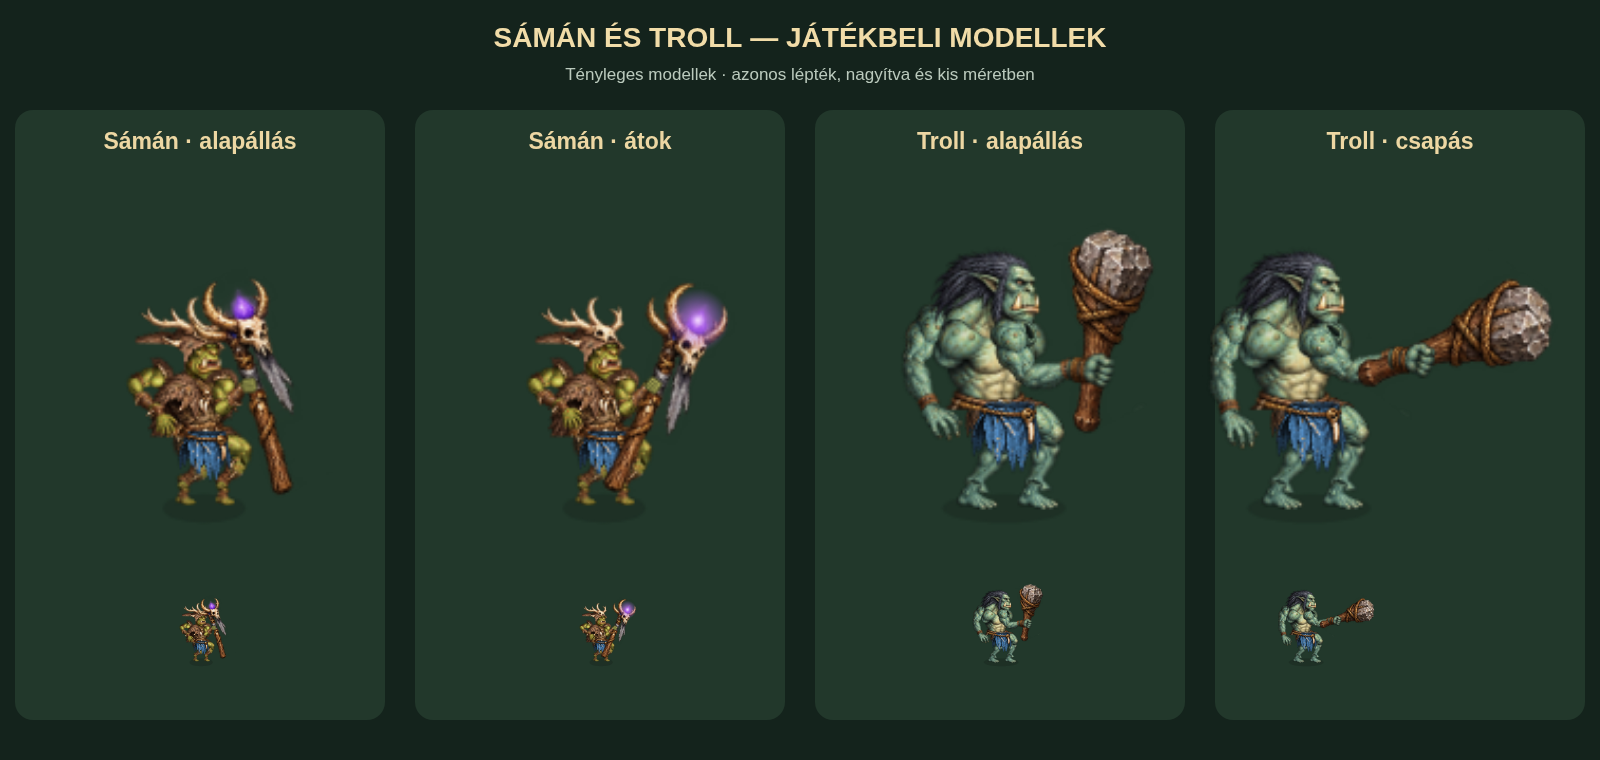
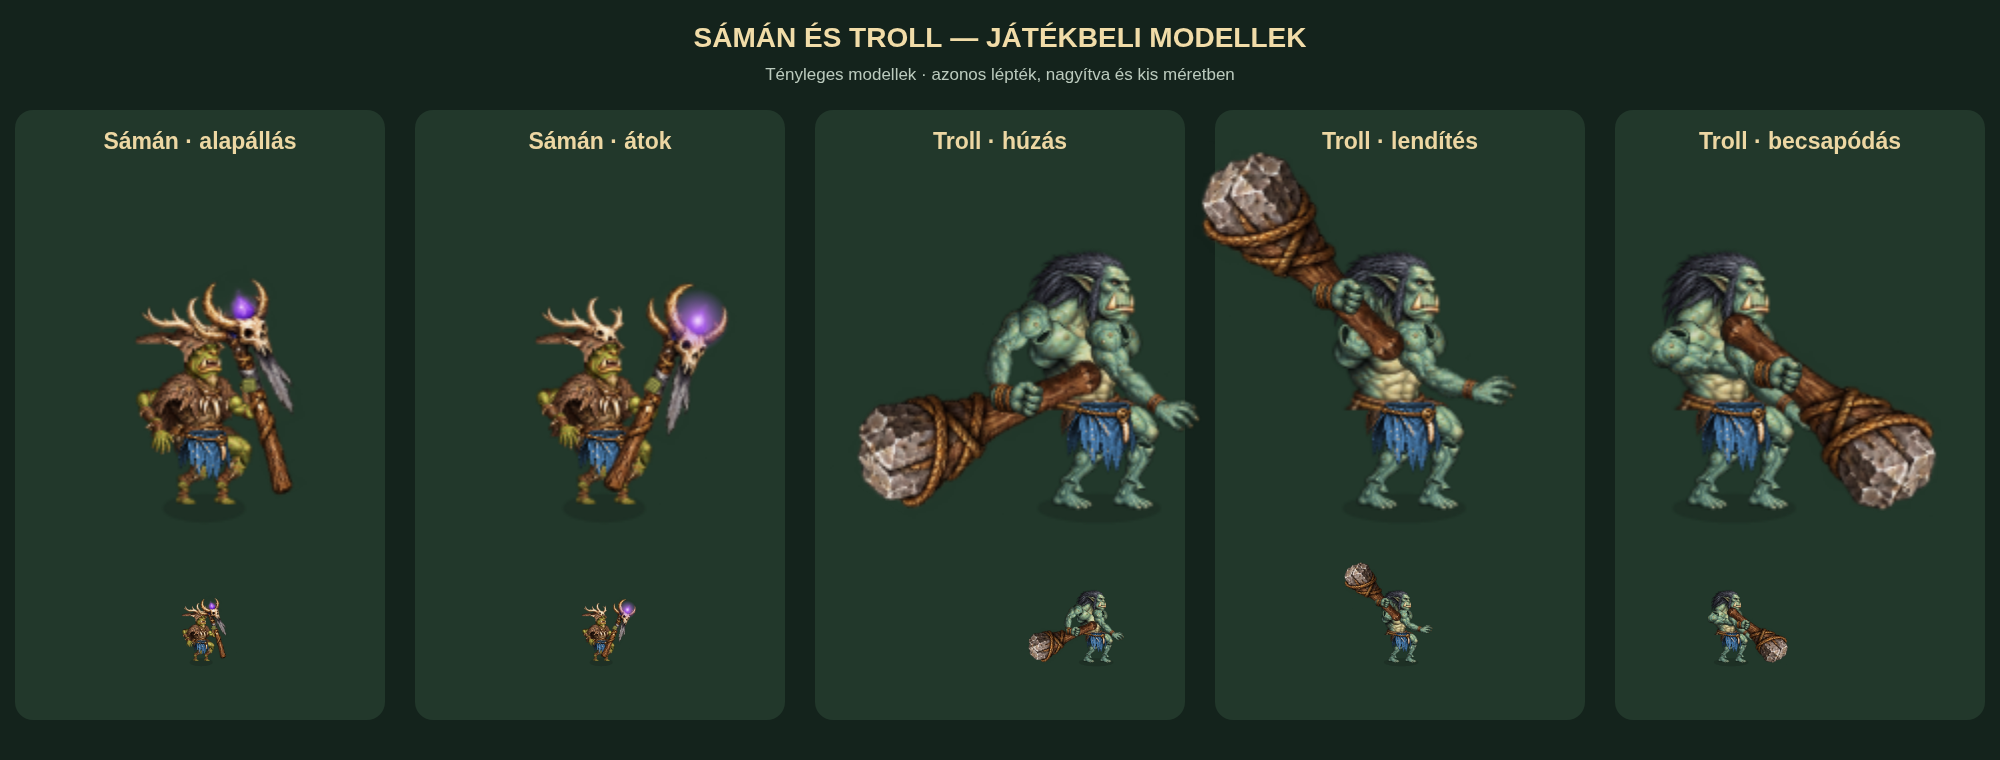
Drag the Troll club in the other hand and slam into lasting ground cracks

diff --git a/src/rendering/orc-mystic-figures.js b/src/rendering/orc-mystic-figures.js
@@ -14,6 +14,7 @@ export function installOrcMysticsArt(R) {
   };
   R.shamanLaunchPoint=()=>weaponTip('staff',[13,-28],.6);
   R.shamanProjectilePoint=(a,t)=>shamanProjectilePoint(R,a,t);
+  R.trollGroundPoint=()=>[(10+manifest.clubGround.impact.offset[0])*manifest.modelScales.orc_troll,1.5*manifest.modelScales.orc_troll];
 }
 function joint(a,b,upper,lower,bend=1) {
   const dx=b[0]-a[0],dy=b[1]-a[1],d=Math.max(.001,Math.hypot(dx,dy)),reach=Math.min(d,upper+lower-.001);
@@ -54,23 +55,27 @@ export function drawOrcMystic(g,R,color,p,elite,pose,key) {
   g.save();g.translate(p.death*3,-18+17*Math.sin(p.death*1.48));g.rotate(p.death*1.48);g.translate(0,18);
   const knees=hips.map((start,i)=>{const knee=joint(start,feet[i],8.5,7.9,-1);g.save();if(!i)g.globalAlpha=.9;limb(g,R,prefix+'Thigh',start,knee);limb(g,R,prefix+'Shin',knee,feet[i]);const name=prefix+'Foot',r=manifest.parts[name],h=troll?5.8:5,w=h*r[2]/r[3],a=manifest.anchors[name].ankle;part(name,feet[i][0]-a[0]*w,feet[i][1]-a[1]*h,h);g.restore();return knee;});
   g.save();g.translate(0,bob);
-  const grip=troll?[mix(18-5*wind,21,strike),mix(-24-12*wind,-26,strike)]:[mix(12,13,strike),-28-wind*1.3];
-  const angle=troll?mix(.22-1.3*wind,1.3,strike):mix(-.10-.15*wind,.6,strike);
-  const fistRect=manifest.parts.fist,fistAnchor=manifest.anchors.fist,fistHeight=6.5,dx=(fistAnchor.grip[0]-fistAnchor.wrist[0])*fistRect[2]*fistHeight/fistRect[3],dy=(fistAnchor.grip[1]-fistAnchor.wrist[1])*fistHeight;
-  const far={shoulder:[troll?-9.8:-8,-30.5],wrist:troll?[-13+2*wind-strike,-17-3*wind+strike]:[-11-2*wind+strike,-22-3*wind-strike]},near={shoulder:[troll?5:6.5,troll?-31:-30.5],wrist:troll?[grip[0]-dx,grip[1]-dy]:[grip[0]-1.3,grip[1]]};
-  far.elbow=joint(far.shoulder,far.wrist,8.7,8.2,1);near.elbow=joint(near.shoulder,near.wrist,8.7,8.2,1);
-  limb(g,R,prefix+'Upper',far.shoulder,far.elbow);
   const torso=prefix+'Torso',r=manifest.parts[torso],a=manifest.anchors[torso],h=troll?25:22,w=h*r[2]/r[3],at=[waist[0]-a.waist[0]*w,waist[1]-a.waist[1]*h];
+  const drag=manifest.clubGround.drag,impact=manifest.clubGround.impact;
+  const grip=troll?[mix(-13+3*wind,10,strike),mix(1.5-drag.offset[1]-bob-19*wind,1.5-impact.offset[1],strike)]:[mix(12,13,strike),-28-wind*1.3];
+  const angle=troll?mix(mix(drag.angle,-.7,wind),impact.angle,strike):mix(-.10-.15*wind,.6,strike);
+  const fistRect=manifest.parts.fist,fistAnchor=manifest.anchors.fist,fistHeight=7.2,dx=(fistAnchor.grip[0]-fistAnchor.wrist[0])*fistRect[2]*fistHeight/fistRect[3],dy=(fistAnchor.grip[1]-fistAnchor.wrist[1])*fistHeight;
+  const shoulder=i=>[at[0]+a.shoulders[i][0]*w,at[1]+a.shoulders[i][1]*h];
+  const far={shoulder:troll?[-9.8,-30.5]:shoulder(0),wrist:troll?[grip[0]-dx,grip[1]-dy]:[-11-2*wind+strike,-18.5-3*wind-strike]},near={shoulder:troll?[5,-31]:shoulder(1),wrist:troll?[12+2*wind-strike,-17-3*wind]:[grip[0]-1.3,grip[1]]};
+  const armLengths=troll?[8.7,8.2]:[7.2,7.2];
+  far.elbow=joint(far.shoulder,far.wrist,...armLengths,1);near.elbow=joint(near.shoulder,near.wrist,...armLengths,1);
+  if(!troll)limb(g,R,prefix+'Upper',far.shoulder,far.elbow);
   // The generated torso includes skirt/hip stubs. The animated legs own that
   // silhouette; stop the chest at its belt before drawing the waist cloth.
   g.save();g.beginPath();g.rect(at[0],at[1],w,a.waist[1]*h+.5);g.clip();part(torso,...at,h);g.restore();
   const neck=[at[0]+a.neck[0]*w,at[1]+a.neck[1]*h],head=prefix+'Head',hr=manifest.parts[head],ha=manifest.anchors[head].neck,hh=troll?17:27,hw=hh*hr[2]/hr[3],hx=neck[0]-ha[0]*hw,hy=neck[1]-ha[1]*hh;
   g.save();if(!troll){g.beginPath();manifest.clips.shHead.forEach(([x,y],i)=>i?g.lineTo(hx+x*hw,hy+y*hh):g.moveTo(hx+x*hw,hy+y*hh));g.closePath();g.clip();}part(head,hx,hy,hh);g.restore();
   g.drawImage(cloth(R,color),waist[0]-7.2,waist[1]-1.4,14.4,troll?13.8:13);
+  if(troll)limb(g,R,prefix+'Upper',far.shoulder,far.elbow);
   limb(g,R,prefix+'Fore',far.elbow,far.wrist);
-  const freeAngle=Math.atan2(far.wrist[1]-far.elbow[1],far.wrist[0]-far.elbow[0]);
-  hand(g,R,troll?'openHand':'palm',far.wrist,freeAngle-(troll?Math.PI/2:0),troll?8:5.8);
+  if(!troll){const freeAngle=Math.atan2(far.wrist[1]-far.elbow[1],far.wrist[0]-far.elbow[0]);hand(g,R,'palm',far.wrist,freeAngle,5.8);}
   limb(g,R,prefix+'Upper',near.shoulder,near.elbow);limb(g,R,prefix+'Fore',near.elbow,near.wrist);
+  if(troll){const freeAngle=Math.atan2(near.wrist[1]-near.elbow[1],near.wrist[0]-near.elbow[0])-Math.PI/2;hand(g,R,'openHand',near.wrist,freeAngle,8);}
   const weapon=troll?'club':'staff',wr=manifest.parts[weapon],wa=manifest.anchors[weapon].grip,wh=manifest.weaponHeights[weapon],ww=wh*wr[2]/wr[3];
   g.save();g.translate(...grip);g.rotate(angle+manifest.weaponRotations[weapon]);g.drawImage(R.orcMysticsTexture,...wr,-wa[0]*ww,-wa[1]*wh,ww,wh);g.restore();
   if(troll)hand(g,R,'fist',grip,0,fistHeight,'grip');else shamanGrip(g,grip,angle,elite);
@@ -78,7 +83,8 @@ export function drawOrcMystic(g,R,color,p,elite,pose,key) {
   if(!troll&&!p.death){const radius=loaded?2.1+wind+strike:1.2,gradient=g.createRadialGradient(...tip,0,...tip,radius*2.5);gradient.addColorStop(0,'#f8e4ff');gradient.addColorStop(.25,'#bc72edbb');gradient.addColorStop(1,'#a565e800');g.fillStyle=gradient;g.beginPath();g.arc(...tip,radius*2.5,0,TAU);g.fill();}
   if(elite){g.strokeStyle='#f0cf76';g.lineWidth=1.2;g.beginPath();g.moveTo(-8,-30);g.lineTo(-4,-32);g.moveTo(4,-32);g.lineTo(8,-30);g.stroke();g.strokeStyle='#ffe3a0';g.lineWidth=.8;g.beginPath();g.moveTo(-5,waist[1]+2);g.lineTo(5,waist[1]+2);g.stroke();}
   g.restore();g.restore();
-  return {painted:true,style:'painted-mystic',handRoles:{weapon:'near',free:'far'},arms:{far,near},grip,weapon,weaponAngle:angle,weaponTip:tip,loaded,neck,collar:[...neck],pelvis,waist:[waist[0],waist[1]+bob],hips,knees,feet,modelScale:manifest.modelScales[key],death:p.death};
+  const groundOffset=troll&&(pose.state==='idle'||pose.state==='walk')?drag.offset:troll&&pose.state==='attack'&&(pose.frame===6||pose.frame===7)?impact.offset:null;
+  return {painted:true,style:'painted-mystic',handRoles:{weapon:troll?'far':'near',free:troll?'near':'far'},arms:{far,near},armLengths,grip,weapon,weaponAngle:angle,weaponTip:tip,groundContact:groundOffset?[grip[0]+groundOffset[0],grip[1]+groundOffset[1]+bob]:null,torsoShoulders:troll?null:[shoulder(0),shoulder(1)],loaded,neck,collar:[...neck],pelvis,waist:[waist[0],waist[1]+bob],hips,knees,feet,modelScale:manifest.modelScales[key],death:p.death};
 }
 
 export function shamanProjectilePoint(R,a,t) {

diff --git a/src/rendering/battle-effects.js b/src/rendering/battle-effects.js
@@ -148,8 +148,33 @@ export function installBattleEffects(R) {
     if(a.to<R.ROAD.camera-110||a.to>R.ROAD.camera+R.ROAD.w/R.ROAD.zoom+110)return;
     const quake=slam&&R.hasBranch(R.cityForSide(u.side),'orc_troll','earthshaker')&&u.attackCount%3===0;
     const f={kind,lane:a.to,offset:a.toOffset||0,start:a.hit,radius:slam?(u.aoe||55)*(quake?2.5:1):Math.max(14,Math.min(90,a.radius||28)),quake,casterFire:kind==='fire'&&u.key==='mage'&&R.ROAD.test&&R.ROAD.testRoster==='casters'&&R.ROAD.figureStyle==='painted'};
+    if(slam){
+      const contact=R.trollGroundPoint(),face=a.to>=a.lane?1:-1;
+      f.lane=a.lane+contact[0]*R.ROAD.h/600*face;f.offset=(a.offset||0)+contact[1];
+      // Deterministic decoration must not consume the combat random stream.
+      f.cracks=Array.from({length:quake?8:6},(_,i)=>{
+        const angle=i/(quake?8:6)*TAU+Math.sin(a.hit+u.id)*.4,length=.55+.35*(.5+.5*Math.sin(i*3.7+u.id));
+        return Array.from({length:4},(_,j)=>{const t=j/3,bend=j===0?0:Math.sin(i*2.3+j*4.7)*.11;return [Math.cos(angle+bend)*length*t,Math.sin(angle+bend)*length*t*.32];});
+      });
+    }
     const limit=R.ROAD.lowDetail?64:128;
     if(fx.impacts.length<limit)fx.impacts.push(f);else{fx.head=(fx.head+1)%limit;fx.impacts[fx.head]=f;}
+  };
+  R.roadDrawGroundEffects=()=>{
+    if(!R.ROAD.test||R.ROAD.testRoster!=='orc-mystics'||R.ROAD.figureStyle!=='painted')return;
+    const g=R.ctx,now=R.ROAD.clock,scale=R.ROAD.h/600*R.ROAD.zoom;
+    for(const f of fx.impacts){
+      const age=now-f.start;if(f.kind!=='slam'||age<0||age>=3)continue;
+      const p=R.pointAt(f.lane,f.offset);if(p.x< -180||p.x>R.ROAD.w+180)continue;
+      g.save();g.translate(p.x,p.y);g.scale(R.ROAD.zoom,scale);g.globalAlpha=Math.min(1,age/.07)*Math.min(1,(3-age)/.7)*.85;
+      for(const [pass,color,width]of [[0,'#d6bc86',2.2],[1,'#514131',1.2]]){
+        g.strokeStyle=color;g.lineWidth=width;g.lineJoin='miter';g.beginPath();
+        for(const points of f.cracks){
+          points.forEach(([x,y],i)=>i?g.lineTo(x*f.radius,y*f.radius+(pass?0:.7)):g.moveTo(x*f.radius,y*f.radius+(pass?0:.7)));
+          const a=points[2],b=points[3];g.moveTo(a[0]*f.radius,a[1]*f.radius);g.lineTo((a[0]+(b[0]-a[0])*.7)*f.radius,(a[1]-(b[1]-a[1])*.9)*f.radius);
+        }g.stroke();
+      }g.restore();
+    }
   };
   R.roadDrawEffects=()=>{
     const now=R.ROAD.clock;
@@ -165,7 +190,8 @@ export function installBattleEffects(R) {
     const g=R.ctx,scale=R.ROAD.h/600*R.ROAD.zoom;
     let n=0;
     for(const f of fx.impacts){
-      const age=now-f.start;if(age<0||age>.6)continue;fx.impacts[n++]=f;
+      const age=now-f.start;if(age<0||age>(f.kind==='slam'?3:.6))continue;fx.impacts[n++]=f;
+      if(f.kind==='slam'&&age>.6)continue;
       const p=R.pointAt(f.lane,f.offset);if(p.x< -100||p.x>R.ROAD.w+100)continue;
       const t=age/.6,color=({fire:COLORS.fire,frost:COLORS.frost,curse:COLORS.curse,soul:COLORS.poison,holy:'#ffe2a0',rock:'#c5b180',slam:'#bca27c'})[f.kind];
       const radius=f.radius*(.25+Math.sin(Math.min(1,t*2)*Math.PI/2)*.75);

diff --git a/src/rendering/battle-figures.js b/src/rendering/battle-figures.js
@@ -241,8 +241,8 @@ function sprite(R, u, pose) {
   const color=R.unitTeamFill(u),refined=R.ROAD.figureStyle==='refined'&&REFINED_UNITS.has(u.key),key=`figure:${u.key}:${color}:${pose.state}:${pose.frame}${refined?":refined":""}${skeleton?':painted-skeleton':orc?':painted-orc':knight?':painted-knight':catapult?':painted-catapult':human?':painted-human':archer?':painted-archer':caster?':painted-caster:'+kind:raider?':painted-raider:'+variant:mystic?':painted-mystic':''}${elite?":elite":""}${healKey}`;
   let canvas=R.ROAD.sprites.get(key);if(canvas)return canvas;
   const style=FIGURES[u.key];if(!style)return null;
-  canvas=document.createElement('canvas');canvas.width=canvas.height=knight||catapult||human||archer||caster||raider||mystic?256:refined||painted?192:128;
-  const bounds=mystic?[-54,-90,132,132]:raider?[-48,-80,112,112]:human||archer||caster?[-44,-76,112,112]:catapult?[-54,-78,112,112]:knight?[-54,-84,124,124]:orc?[-46,-70,92,92]:[-40,-66,80,80];canvas.figureBounds=bounds;
+  canvas=document.createElement('canvas');canvas.width=canvas.height=mystic?320:knight||catapult||human||archer||caster||raider||mystic?256:refined||painted?192:128;
+  const bounds=mystic?[-78,-96,156,156]:raider?[-48,-80,112,112]:human||archer||caster?[-44,-76,112,112]:catapult?[-54,-78,112,112]:knight?[-54,-84,124,124]:orc?[-46,-70,92,92]:[-40,-66,80,80];canvas.figureBounds=bounds;
   const g=canvas.getContext('2d'),p=phase(pose),resolution=canvas.width/bounds[2];g.translate(-bounds[0]*resolution,-bounds[1]*resolution);g.scale(resolution,resolution);
   ellipse(g,1,2,style.mount||style.machine?18:style.size>1?15:10,3.5,'#18251e66');
   if(p.death&&!painted){g.translate(p.death*4,-(1-p.death)*23);g.scale(1,1-p.death*.55);g.rotate(p.death*1.48);g.translate(0,23);}

diff --git a/src/diagnostics/stress-battle.js b/src/diagnostics/stress-battle.js
@@ -89,7 +89,7 @@ export function register(runtime) {
     runtime.$('#roadFigureToggle').textContent=runtime.ROAD.figureStyle!=='simple'?'Grafika: Új':'Grafika: Jelenlegi';
     runtime.$('#roadFigureToggle').setAttribute('aria-pressed',String(runtime.ROAD.figureStyle!=='simple'));
     runtime.ROAD.zoom = roster === 'figures' ? 1.75 : ['knight','catapult','infantry','archer','casters','orc-raiders','orc-mystics'].includes(roster)||count === 50 ? 1.25 : 1;
-    if(['catapult','casters'].includes(roster)){
+    if(['catapult','casters','orc-mystics'].includes(roster)){
       const available=runtime.roadWar.clientWidth-(runtime.ROAD.enemyPinned?runtime.ROAD.city+24:0)-32;
       const span=(roster==='catapult'?catapultGap:650)+80*runtime.ROAD.h/600;
       runtime.ROAD.zoom=[1.25,1,.75].find(zoom=>span*zoom<=available)||.75;

diff --git a/src/combat/road-integration.js b/src/combat/road-integration.js
@@ -272,6 +272,7 @@ export function initializeCombatRoadIntegration(runtime) {
     runtime.canvas.style.transform = 'translateX(' + viewportX + 'px)';
     drawBattleGround(runtime);
     drawRoadScale(runtime);
+    runtime.roadDrawGroundEffects?.();
     runtime.drawTowerRangeV496();
     for (const t of runtime.towers) {
       const x = runtime.pointAt(t.lane).x;

diff --git a/src/config/app.js b/src/config/app.js
@@ -1,6 +1,6 @@
 export const APP = Object.freeze({
-  version: '4.45.0',
-  label: 'V4.45.0 · SÁMÁN ÉS TROLL',
+  version: '4.45.1',
+  label: 'V4.45.1 · SÁMÁN ÉS TROLL',
   title: 'Roadlords – Sámán és Troll',
   repository: 'krisztianmatekiss/Roadlords',
   musicRoot: 'https://raw.githubusercontent.com/krisztianmatekiss/roadlords-music/main/',
